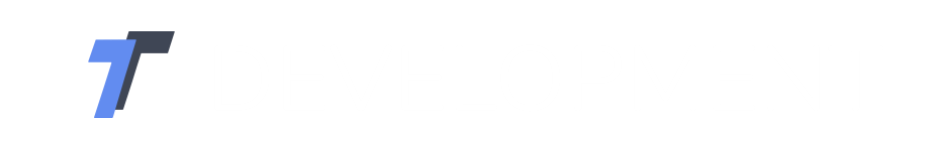
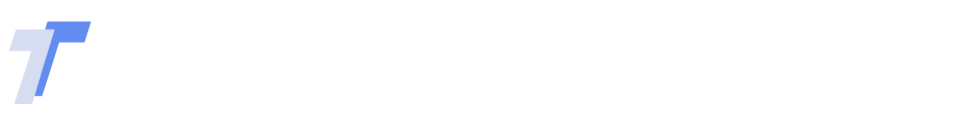
updates

Changed region(s): [[0.0, 0.1707, 0.2119, 0.8537]]

diff --git a/src/components/homepage/HomePage.js b/src/components/homepage/HomePage.js
@@ -7,12 +7,12 @@ import {
   Col,
   Image,
   Card,
-  Carousel
 } from "react-bootstrap";
 import { Link, Redirect } from "react-router-dom";
 import AnimationWrapper from "./AnimationWrapper.js";
 import Canvas from "../canvas/Canvas";
 import Animation from "../canvas/Animation";
+import Carousel from "./Carousel";
 import Footer from "../tools/Footer";
 import Navigation from "../tools/Navigation";
 import ThemeCard from "./ThemeCard";
@@ -51,37 +51,30 @@ class HomePage extends React.Component {
                 justifyContent: "center",
                 alignItems: "center",
                 width: "100%",
-                height: "100vh" 
+                height: "20vh"
               }}
             >
               {/**Icon */}
               {/* PUT THE ANIMATION REF(IN CONSTRUCTOR) HERE*/}
               <Image
                 fluid
-                style={{ padding: 0, height: 300 }}
+                style={{ padding: 0, height: 200, marginTop: "200px" }}
                 className="main-graphic"
                 src={require("./images/light-logo.png")}
               />
             </Col>
-          </AnimationWrapper>
-        </Container>
-
-        {/**ABOUT SECTION */}
-        <Container
-          fluid
-          className="boxShadowed"
-          style={{ backgroundColor: "#dddddd", color: "#202020" }}
-        >
-          <Container>
+            <Container style={{height:"50vh"}}>
             <Row
               style={{
                 display: "flex",
                 justifyContent: "center",
-                alignItems: "center"
+                alignItems: "center",
+                marginTop: "200px",
+                color: "#dddddd"
               }}
             >
               <h3 className="homepageTitle" style={{ marginBottom: "20px" }}>
-                What we do
+                Our Mission
               </h3>
             </Row>
             <Row>
@@ -94,9 +87,10 @@ class HomePage extends React.Component {
                   justifyContent: "center",
                   alignItems: "center",
                   textAlign:"center",
+                  color: "#dddddd"
                 }}
               >
-              T2 Development provides PPE for clinics, hospitals, nursing homes, businesses and individuals. By exclusively partnering with a manufacturer in Shanghai, China, T2 brings the Chinese expertise in working with the coronavirus to the United States. Our primary product is the highly sought after KN-95 mask, shown to the right. We are selling these at $3.50 per mask for orders above 5 masks. All equipment is stored in the United States, allowing for quick delivery.
+              T2 Development provides personal protective equipment (PPE) for clinics, hospitals, nursing homes, businesses and individuals. By partnering with an FDA-approved manufacturer in Shanghai, China, we have secured exclusive North American distribution rights for KN95 protective masks, available at a competitive price. Supplies are stored at our distribution center in Austin, TX.
               </Col>
               <Col md={6} sm={12}
               style={{
@@ -115,7 +109,9 @@ class HomePage extends React.Component {
               </Col>
             </Row>
           </Container>
+          </AnimationWrapper>
         </Container>
+
         {/**MASKS SECTION */}
         <Container
           fluid
@@ -136,34 +132,50 @@ class HomePage extends React.Component {
             </Row>
             <Row>
             <Col
-                md={6}
-                sm={12}
+                md={4}
+                sm={8}
                 style={{
                   fontFamily: "Lora",
                   display: "flex",
                   justifyContent: "center",
                   alignItems: "center",
                   textAlign:"center",
+                  fontSize:"20pt"
                 }}
               >
               Packaging
               </Col>
               <Col
-                md={6}
-                sm={12}
+                md={4}
+                sm={8}
                 style={{
                   fontFamily: "Lora",
                   display: "flex",
                   justifyContent: "center",
                   alignItems: "center",
                   textAlign:"center",
+                  fontSize:"20pt"
                 }}
               >
               Features
               </Col>
+              <Col
+                md={4}
+                sm={8}
+                style={{
+                  fontFamily: "Lora",
+                  display: "flex",
+                  justifyContent: "center",
+                  alignItems: "center",
+                  textAlign:"center",
+                  fontSize:"20pt"
+                }}
+              >
+              Why it Matters
+              </Col>
             </Row>
             <Row>
-              <Col md={6} sm={12}
+              <Col md={4} sm={8}
               style={{
                   fontFamily: "Lora",
                   display: "flex",
@@ -178,7 +190,7 @@ class HomePage extends React.Component {
                 src={require("./images/packaging.JPG")}
               />
               </Col>
-              <Col md={6} sm={12}
+              <Col md={4} sm={8}
               style={{
                   fontFamily: "Lora",
                   display: "flex",
@@ -191,6 +203,21 @@ class HomePage extends React.Component {
                 style={{ padding: 0 }}
                 className="dash-graphic"
                 src={require("./images/mask_advantages.JPG")}
+              />
+              </Col>
+              <Col md={4} sm={8}
+              style={{
+                  fontFamily: "Lora",
+                  display: "flex",
+                  justifyContent: "center",
+                  alignItems: "center",
+                  textAlign:"center",
+                }}>
+              <Image
+                fluid
+                style={{ padding: 0 }}
+                className="dash-graphic"
+                src={require("./images/T2_Benefits.png")}
               />
               </Col>
             </Row>
@@ -276,6 +303,33 @@ class HomePage extends React.Component {
               </Col>
             </Row>
             
+          </Container>
+        </Container>
+        <Container fluid className="boxShadowed"  style={{ backgroundColor: "#dddddd", color: "#222222" }}>
+          <Container>
+            <Row
+              style={{
+                display: "flex",
+                justifyContent: "center",
+                alignItems: "center"
+              }}
+            >
+              <h3 className="homepageTitle" style={{ marginBottom: "10px" }}>
+                Testimonials 
+              </h3>
+            </Row>
+            <Row>
+              <Col
+                xs={12}
+                style={{
+                  fontFamily: "Lora",
+                  justifyContent: "center",
+                  alignItems: "center"
+                }}
+              >
+                <Carousel style={{ width: "100%" }} />
+              </Col>
+            </Row>  
           </Container>
         </Container>
         <Footer />

diff --git a/src/components/homepage/Carousel.js b/src/components/homepage/Carousel.js
@@ -1,0 +1,76 @@
+import React, { useState } from "react";
+import { Carousel, Row, Container, Col, Spinner } from "react-bootstrap";
+import "./HomePage.scss";
+import { Link } from "react-router-dom";
+
+class CustomCarousel extends React.Component {
+  state = { index: 0, testimonials: [], loading: true };
+
+  componentDidMount = async () => {
+    const testimonials = [{
+      name: "St. Cloud ENT",
+      quote: "Amazing Masks!"
+    },
+    {
+      name: "Westminster",
+      quote: "These people save lives."
+    },
+    {
+      name: "Duray Family Dentistry",
+      quote: "This has given my employees so much more security."
+    }]
+
+    this.setState({ testimonials: testimonials, loading: false });
+  };
+
+  handleSelect = (selectedIndex, e) => {
+    this.setState({ index: selectedIndex });
+  };
+
+  render() {
+    const slides = this.state.testimonials.map((testimonials, index) => (
+      <Carousel.Item key={index}>
+        <Container>
+          <Row>
+            <h3>
+              <a target="_blank" href={testimonials.webLink} className="carouselLink">
+                {testimonials.name}
+              </a>
+            </h3>
+          </Row>
+          <Row>
+          
+          <p>{testimonials.quote}</p>
+          </Row>
+        </Container>
+      </Carousel.Item>
+    ));
+
+    return (
+      <Container
+        fluid
+        style={{
+          width: "100%",
+          justifyContent: "center",
+          alignItems: "middle"
+        }}
+      >
+        <center>
+          {this.state.loading ? (
+            <Spinner animation="grow" size="lg" style={{ margin: "2rem" }} />
+          ) : (
+            <Carousel
+              activeIndex={this.state.index}
+              onSelect={this.handleSelect}
+              style={{ alignItems: "top" }}
+            >
+              {slides}
+            </Carousel>
+          )}
+        </center>
+      </Container>
+    );
+  }
+}
+
+export default CustomCarousel;

diff --git a/src/components/homepage/HomePage.scss b/src/components/homepage/HomePage.scss
@@ -63,7 +63,7 @@ $main-white: #f2f4f5;
 
 .main-graphic {
   animation: opac 4s;
-  height: 60vh;
+  height: 20vh;
 }
 .dash-graphic {
   animation: opac 4s;
